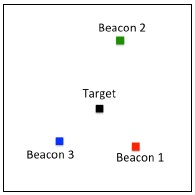
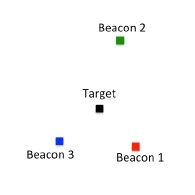
Made some images bigger in `time.tex` and moved border to fbox
Image sources should be changed to a better quality also

Changed region(s): [[0.0, 0.0, 0.9846, 0.9846]]

diff --git a/time.tex b/time.tex
@@ -7,7 +7,7 @@ Usually an object at an unknown location is able to create signals at an unknown
 
 \begin{figure}[htp]
     \centering
-    \includegraphics[width=3cm]{1.jpg}
+    \fbox{\includegraphics[width=4.5cm]{1.jpg}}
     \caption{The location of Target and Beacons \cite{brian17}}
     \label{fig:Target location}
 \end{figure}
@@ -16,7 +16,7 @@ In the following example, we have a target which surrounded by some Beacons. At 
 
 \begin{figure}[htp]
     \centering
-    \includegraphics[width=2cm]{2.jpg}
+    \fbox{\includegraphics[width=4.5cm]{2.jpg}}
     \caption{Localization \cite{jin18}}
     \label{fig:Localization}
 \end{figure}
@@ -78,7 +78,7 @@ In this equation only $p_p(t)$ has not given and it indicates the position of th
 
 \begin{figure}[htp]
     \centering
-    \includegraphics[width=4cm]{8.jpg}
+    \fbox{\includegraphics[width=5cm]{8.jpg}}
     \caption{Possible location in relation to all Beacons \cite{brian17}}
     \label{fig:hyp_location}
 \end{figure}
